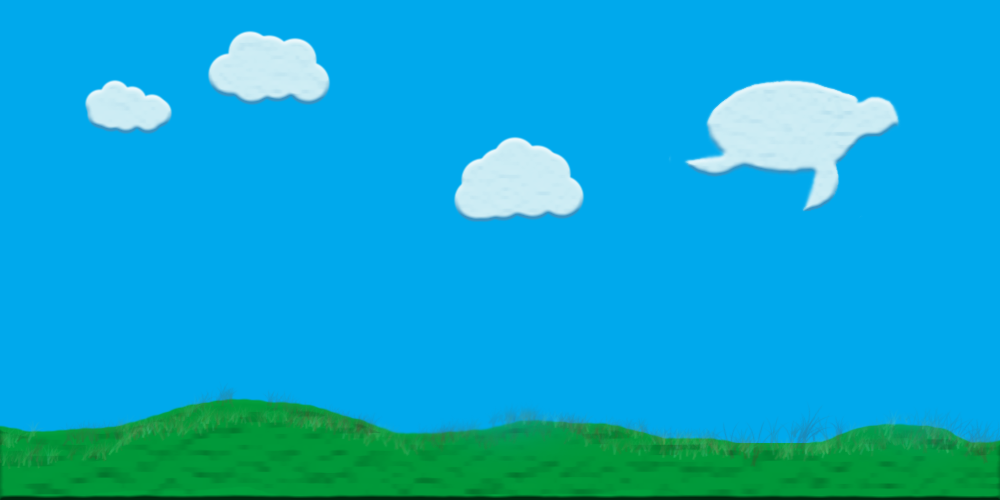
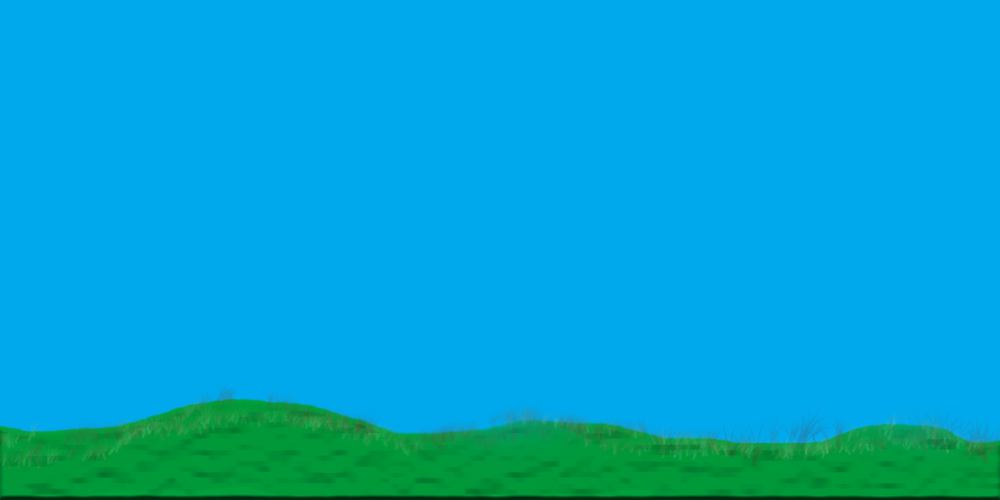
se modifico el fondo inicial - se implementaron imagenes de nubes diferentes y se agrego funcionalidad de animacion para las nubes - se quitaron los bordes laterales del contenedor interfaz

diff --git a/js/game.js b/js/game.js
@@ -750,7 +750,7 @@ function cargar_game_js() {
 
         var mouseoverPos = getMousePos(canvas, evt);
 
-        console.log("x: " +mouseoverPos.x, "y: " + mouseoverPos.y);
+        //console.log("x: " +mouseoverPos.x, "y: " + mouseoverPos.y);
 
         if ((mouseoverPos.x <= 600 && mouseoverPos.x >=383) && mouseoverPos.y >= 113 && mouseoverPos.y <= 172 && Interfaz.estado === "visible" ) {
             
@@ -780,7 +780,7 @@ function cargar_game_js() {
     canvas.addEventListener("click", function (evt) {
         var mousePos = getMousePos(canvas, evt);
 
-        console.log("x: "+mousePos.x, "y: "+ mousePos.y );
+        //console.log("x: "+mousePos.x, "y: "+ mousePos.y );
 
         if ((mousePos.x <= 600 && mousePos.x >=383) && mousePos.y >= 113 && mousePos.y <= 172 && Interfaz.estado === "visible" ) {
             
@@ -795,7 +795,7 @@ function cargar_game_js() {
             
             Interfaz.mod = "coop";
             Interfaz.estado = "invisible";
-            console.log(Guerrero.posicion_x);
+            //console.log(Guerrero.posicion_x);
             //console.log("clicked");
         // alert(mousePos.x + ',' + mousePos.y);
 
@@ -1067,7 +1067,7 @@ function cargar_game_js() {
 
 
             cooldown_guerrero_stun = cooldown_guerrero_stun - 10;
-            console.log("cd stun: " +cooldown_guerrero_stun);
+            //console.log("cd stun: " +cooldown_guerrero_stun);
 
 
         }
@@ -1295,10 +1295,40 @@ context.fillText("Arquero Hp: " + Arquero.vida, Arquero.posicion_x, Arquero.posi
 
 
 
+        //se dibujan las nubes --------------------------------------
+        context.drawImage(Nubes.nube_1.imagen, Nubes.nube_1.x, Nubes.nube_1.y);
+        Nubes.nube_1.x -= 0.23;
 
+        context.drawImage(Nubes.nube_2.imagen, Nubes.nube_2.x, Nubes.nube_2.y);
+        Nubes.nube_2.x -= 0.2;
+
+        context.drawImage(Nubes.nube_3.imagen, Nubes.nube_3.x, Nubes.nube_3.y);
+        Nubes.nube_3.x -= 0.24;
+
+
+        if (Nubes.nube_1.x <= -140) {
+
+            Nubes.nube_1.x = 1000;
+
+        }
+        if (Nubes.nube_2.x <= -140) {
+
+            Nubes.nube_2.x = 1000;
+
+        }
+        if (Nubes.nube_3.x <= -140) {
+
+            Nubes.nube_3.x = 1000;
+
+        }
+        //console.log(Nubes.nube_1.x);
+
+
+
+        // fin se dibujan las nubes --------------------------------------
+ 
       
-        if (Interfaz.estado == "visible") {
-            
+        if (Interfaz.estado == "visible") {           
 
         context.drawImage(Interfaz.contenedor_interfaz, 330, 10);
 
@@ -1309,7 +1339,11 @@ context.fillText("Arquero Hp: " + Arquero.vida, Arquero.posicion_x, Arquero.posi
 
         
 
-            }
+        }
+
+
+        
+
 
 
             //SE COMENTO MOMENTANEAMENTE HASTA AGREGAR FUNCIONALIDAD

diff --git a/js/escenario.js b/js/escenario.js
@@ -1,39 +1,47 @@
 
-let escenario_1 = new Image();
-escenario_1.src = "./img/escenarios/escenario_1.png";
+// let escenario_1 = new Image();
+// escenario_1.src = "./img/escenarios/escenario_1.png";
 
-let escenario_2 = new Image();
-escenario_2.src = "./img/escenarios/escenario_2.png";
-
-
+// let escenario_2 = new Image();
+// escenario_2.src = "./img/escenarios/escenario_2.png";
 
 
 
+let imagen_nube_1 = new Image();
+imagen_nube_1.src = "./img/nube_1.png"
+
+let imagen_nube_2 = new Image();
+imagen_nube_2.src = "./img/nube_2.png"
+
+let imagen_nube_3 = new Image();
+imagen_nube_3.src = "./img/nube_3.png"
 
 
-
-
-let Escenarios = {
-
-
-
-
-    "escenario_1": escenario_1,
-    "escenario_2": escenario_2
-    
-
-
-
-
-
-
-
-
-
-
-
-
-
+let Nubes = {
+    "nube_1" : {
+        imagen: imagen_nube_1,
+        x: 200,
+        y: 200} ,
+    "nube_2": {
+        imagen: imagen_nube_2,
+        x:  800,
+        y: 100} ,
+    "nube_3":{
+        imagen: imagen_nube_3,
+        x: 600,
+        y: 18} ,
 
 
 }
+
+
+
+
+
+// let Escenarios = {
+
+//     "escenario_1": escenario_1,
+//     "escenario_2": escenario_2
+
+
+// }

diff --git a/index.html b/index.html
@@ -140,6 +140,7 @@
     <script type="text/javascript" src="js/spider.js"></script>
     <script type="text/javascript" src="js/boton_controles.js"></script>
 
+    <script type="text/javascript" src="js/escenario.js"></script>
     <!-- <script type="text/javascript" src="js/interfaz.js"></script> -->
 </body>
 

diff --git a/js/teclas.js b/js/teclas.js
@@ -75,7 +75,7 @@ let tecla = {
 
 function cargarTeclas () {
 
-    console.log("entra");
+    //console.log("entra");
     for (var i = 0 ; i < Teclas.length; i++) {
         Teclas[i] = false;
         
